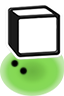
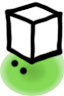
Updated boxes and created Logic.py

Changed region(s): [[0.0625, 0.0, 1.0, 0.6875]]

diff --git a/Logic.py b/Logic.py
@@ -1,0 +1,18 @@
+import pygame
+import os
+
+#logic tickrate, # ticks per second
+LOGIC_TICKRATE = 1
+
+class Logic:
+
+    def __init__(self, node_in):
+        self.node_in = node_in
+        self.active = False
+        self.next_state = False
+
+    def active(self):
+        return self.active
+
+    def logic_tick(self):
+        self.active = self.next_state
